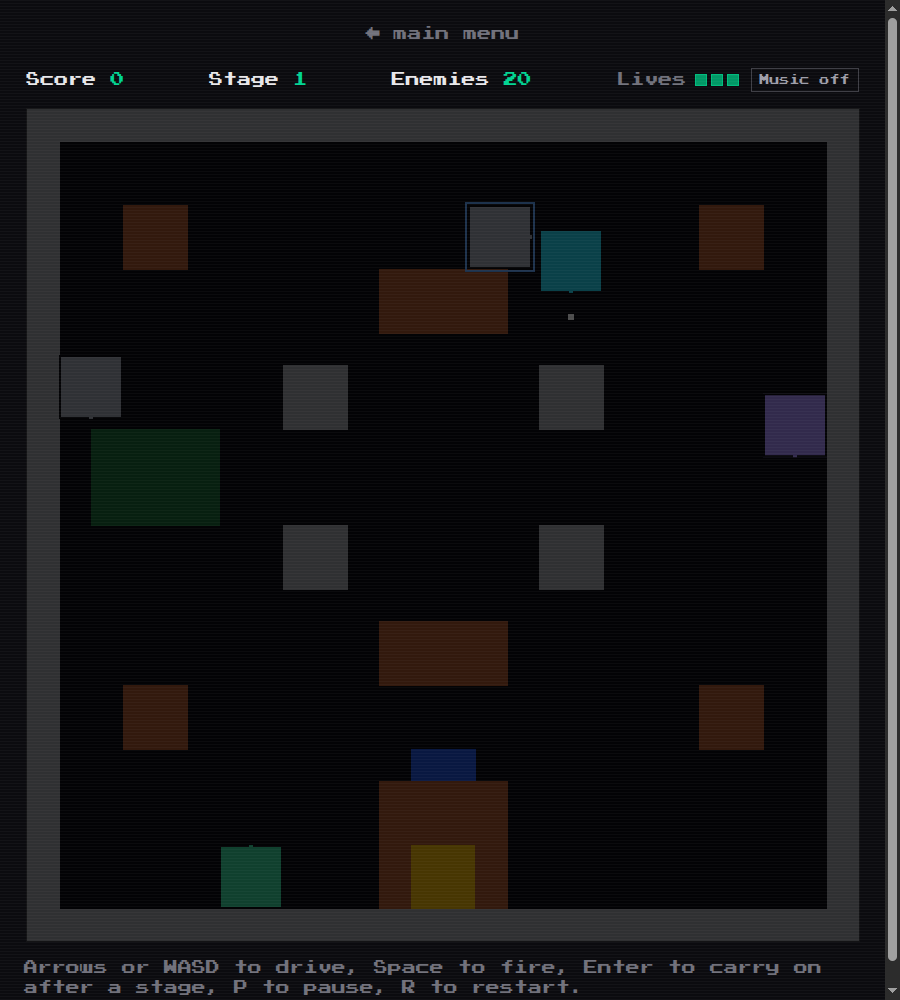
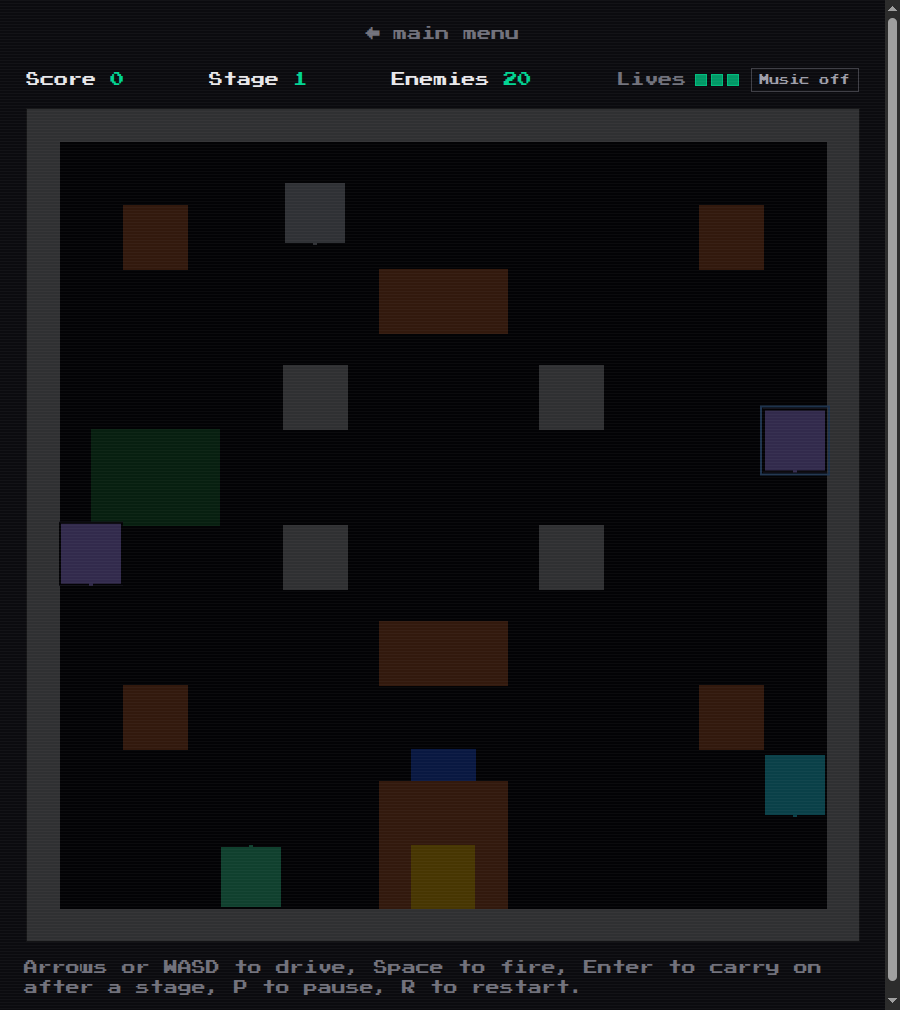
Restyle the README and re-shoot the screenshots
Badges, a centred hero and captions. The title and lobby shots are stacked
instead of sitting in a table, which squeezed each of them to half the width,
and all three are re-shot tight to their content at native resolution.

diff --git a/README.md b/README.md
@@ -1,9 +1,19 @@
-# Tank In City
+<h1 align="center">Tank In City</h1>
 
-Top-down tank battles. A Battle City-inspired arcade game: a deterministic Rust
-engine compiled to WebAssembly, a Rust match server, and a Next.js front end.
+<p align="center"><em>Top-down tank battles — Battle City rules, original code and art.</em></p>
 
-![Single player](docs/screenshots/single-player.png)
+<p align="center">
+  <img alt="licence: MIT" src="https://img.shields.io/badge/licence-MIT-059669?style=flat-square">
+  <img alt="81 tests passing" src="https://img.shields.io/badge/tests-81_passing-059669?style=flat-square">
+  <img alt="engine: Rust to WebAssembly" src="https://img.shields.io/badge/engine-Rust_→_WebAssembly-dea584?style=flat-square&logo=rust&logoColor=white">
+  <img alt="front end: Next.js" src="https://img.shields.io/badge/front_end-Next.js-0070f3?style=flat-square&logo=nextdotjs&logoColor=white">
+</p>
+
+<p align="center">
+  <img src="docs/screenshots/single-player.png" alt="Single Player: the HUD, three lives boxes, and stage 1 under way" width="900">
+</p>
+
+<p align="center"><sub>Single Player — three lives, twenty enemies a stage, one base to keep standing.</sub></p>
 
 ## What it is
 
@@ -19,9 +29,15 @@ engine compiled to WebAssembly, a Rust match server, and a Next.js front end.
   blinking prompt, and no easing anywhere — arcade machines snapped between
   states, they did not tween.
 
-| Title | Lobby |
+## Controls
+
+| Key | What it does |
 |---|---|
-| ![Title screen](docs/screenshots/title.png) | ![Lobby](docs/screenshots/lobby.png) |
+| `←` `→` `↑` `↓`, or `W` `A` `S` `D` | drive |
+| `Space` | fire |
+| `Enter` | carry on after a stage |
+| `P` | pause |
+| `R` | restart |
 
 ## What works today
 
@@ -30,6 +46,18 @@ engine compiled to WebAssembly, a Rust match server, and a Next.js front end.
 | Single Player | complete — plays on its own, no server needed |
 | The lobby | create a room, join by code, 1v1 / 2v2 / 3v3 / free-for-all / co-op vs AI, sides, ready, host transfer, start |
 | A match | the server runs it and streams it, but **the page that draws a *server* match is the next thing to build** — today only a socket client sees one |
+
+<p align="center">
+  <img src="docs/screenshots/title.png" alt="The title screen: play as guest, or the accounts that arrive in Milestone 4" width="780">
+</p>
+
+<p align="center"><sub>The title screen. <code>&gt; insert coin</code> blinks, because that is what arcade machines did.</sub></p>
+
+<p align="center">
+  <img src="docs/screenshots/lobby.png" alt="The lobby with a room created: code, mode, side, players, ready and start" width="800">
+</p>
+
+<p align="center"><sub>The lobby, connected to the running server, with a room just created.</sub></p>
 
 `docs/deferred.md` is the honest list of everything known and deliberately not
 done yet.
@@ -51,7 +79,18 @@ Pages: `/` title, `/menu`, `/game` (Single Player), `/lobby`. Only the lobby nee
 the server running. `docs/running.md` covers the rest, including the checks and
 how to put it on a public link with a tunnel.
 
-## Checks
+## Repo map
+
+| Path | What is in it |
+|---|---|
+| `game-core/` | the engine: the tick loop, tanks, bullets, tiles, power-ups, scoring. Compiles to wasm |
+| `server/` | the game server: rooms, the lobby protocol, the match loop |
+| `web/` | the front end: canvas renderer, audio, the lobby, the check scripts |
+| `docs/` | the milestone records, how to run it, what is deferred, the traps |
+| `plan.md` | the milestone plan the work follows |
+
+<details>
+<summary><b>Checks</b> — what has to pass before a change is called done</summary>
 
 ```sh
 cd game-core && cargo test          # 37 tests: the engine, the type sizes, the stage data
@@ -66,15 +105,7 @@ cd web       && npm run build       # production build
 `npm run check-lobby` and `npm run check-match` drive the real protocol through a
 socket — start the server first, or point them at a tunnel.
 
-## Repo map
-
-| Path | What is in it |
-|---|---|
-| `game-core/` | the engine: the tick loop, tanks, bullets, tiles, power-ups, scoring. Compiles to wasm |
-| `server/` | the game server: rooms, the lobby protocol, the match loop |
-| `web/` | the front end: canvas renderer, audio, the lobby, the check scripts |
-| `docs/` | the milestone records, how to run it, what is deferred, the traps |
-| `plan.md` | the milestone plan the work follows |
+</details>
 
 ## Credits and licence
 
